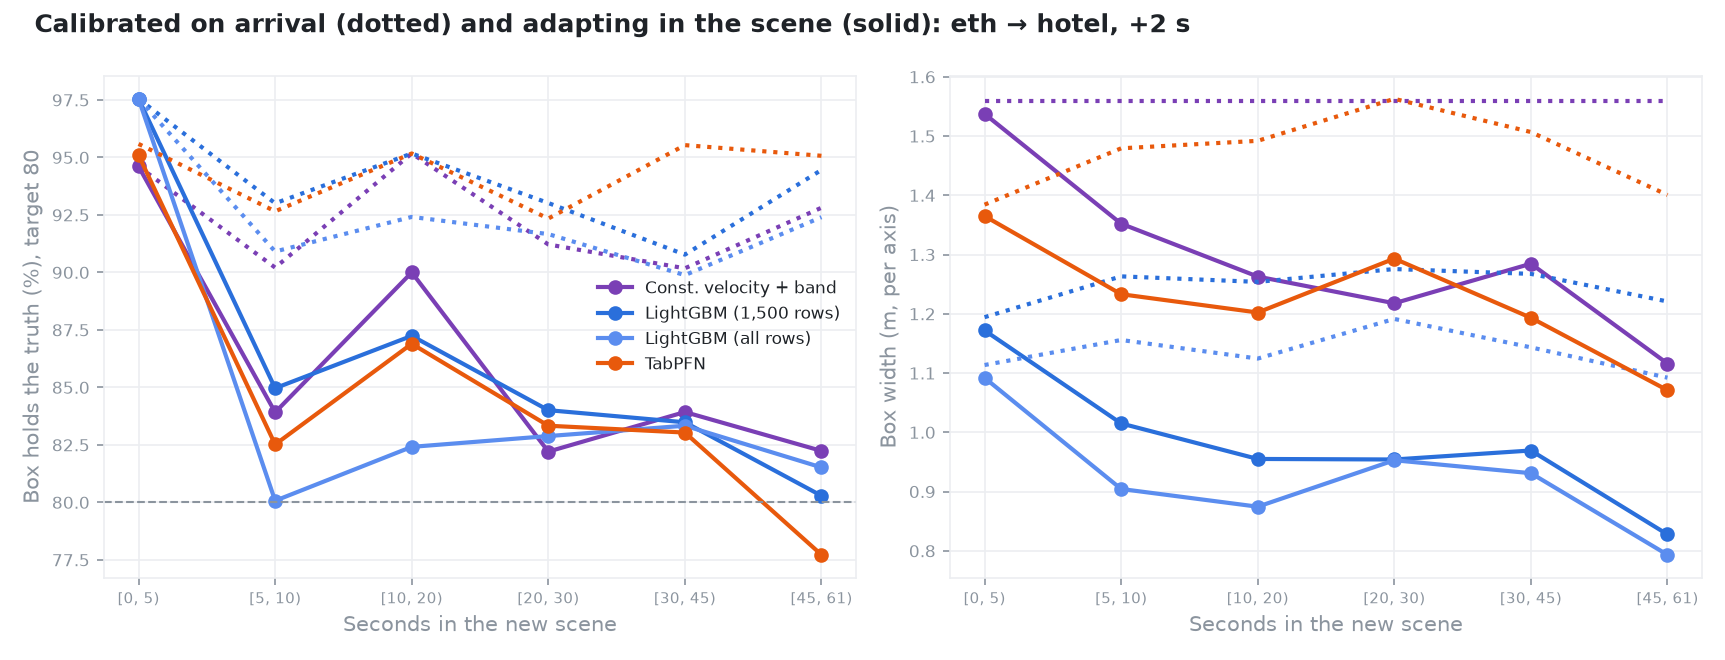
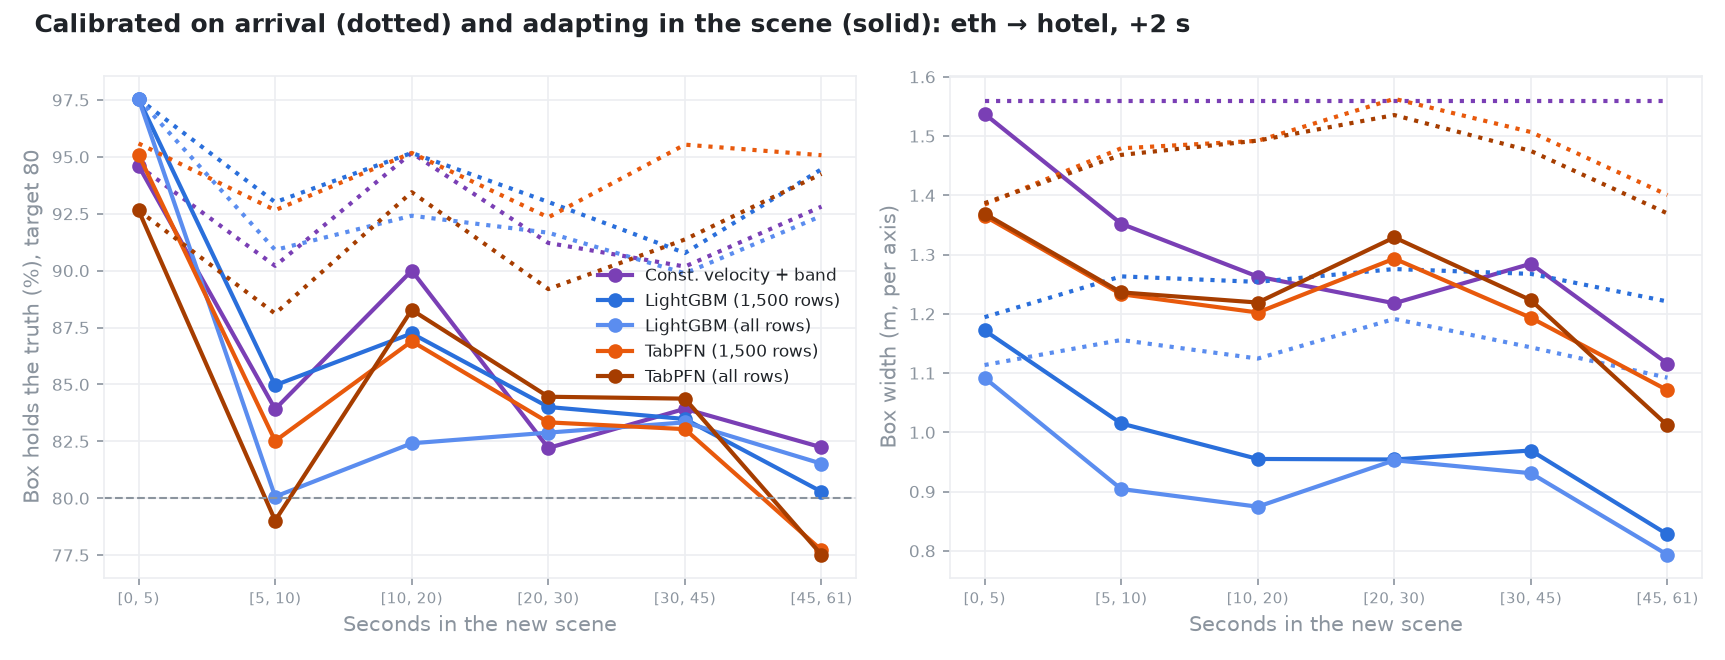
tabpfn_all in the conformal comparison (all training rows via API); tools/incontext_eval.py: re-conditioned TabPFN vs LightGBM refit on the same rows, all calibrated online

diff --git a/tools/incontext_eval.py b/tools/incontext_eval.py
@@ -1,0 +1,156 @@
+"""The decisive in-scene test: does re-conditioning on the new scene's rows make TabPFN sharper
+at matched coverage, compared with LightGBM?
+
+    python tools/incontext_eval.py --train data/hotel --test data/eth --episodes 4 --every 4 --api
+
+At moments every --every seconds in --episodes test episodes, the people at that moment get
+predictions (+2 s) from:
+  tabpfn_mix   TabPFN, context = 60% this scene's completed rows (labelled from observations)
+               + 30% similar bank rows + 10% stratified fill (context.select), refreshed per moment
+  lgbm_mix     LightGBM refit on exactly the same rows per moment
+  lgbm_all     LightGBM on every training-scene row, frozen
+  tabpfn       TabPFN on 1,500 training-scene rows, frozen
+Each gets the same calibration: a split offset from a held-out 30% of the training scene, then the
+online adaptive offset from this scene's outcomes (causal). Reported per seconds in the scene:
+joint coverage of the 10-90% box and its width.
+Prints the number of API calls (10,000 credits each) before running.
+"""
+import argparse
+import sys
+import time
+from pathlib import Path
+
+import matplotlib
+matplotlib.use("Agg")
+import matplotlib.pyplot as plt
+import numpy as np
+import pandas as pd
+
+sys.path.insert(0, str(Path(__file__).resolve().parents[1]))
+from foresight import viz as V  # noqa: E402
+from foresight.core import conformal as CF  # noqa: E402
+from foresight.core import context as C  # noqa: E402
+from foresight.core import features as F  # noqa: E402
+from foresight.core import models as M  # noqa: E402
+from run_offline import rows_for  # noqa: E402
+
+QS = (0.1, 0.5, 0.9)
+BINS = [0, 5, 10, 20, 40, 61]
+LABEL = {"tabpfn_mix": "TabPFN, this scene + similar rows", "lgbm_mix": "LightGBM, same rows refit",
+         "lgbm_all": "LightGBM, all training rows (frozen)", "tabpfn": "TabPFN, training rows (frozen)"}
+COLOR = {"tabpfn_mix": "#e8590c", "lgbm_mix": "#2a6fdb", "lgbm_all": "#5b8def", "tabpfn": "#f4a261"}
+STYLE = {"tabpfn_mix": "-", "lgbm_mix": "-", "lgbm_all": "--", "tabpfn": "--"}
+
+
+def tab(api):
+    return M.make("tabpfn", **({"api": True} if api else {"fast": True, "n_estimators": 1}))
+
+
+def main():
+    ap = argparse.ArgumentParser()
+    ap.add_argument("--train", required=True)
+    ap.add_argument("--test", required=True)
+    ap.add_argument("--noise", type=float, default=0.0)
+    ap.add_argument("--h", type=float, default=2.0)
+    ap.add_argument("--episodes", type=int, default=4)
+    ap.add_argument("--every", type=float, default=4.0)
+    ap.add_argument("--budget", type=int, default=1500)
+    ap.add_argument("--alpha", type=float, default=0.2)
+    ap.add_argument("--eta", type=float, default=0.02)
+    ap.add_argument("--api", action="store_true")
+    ap.add_argument("--yes", action="store_true", help="skip the call-count confirmation pause")
+    a = ap.parse_args()
+    hz = (1.2, 2.0, 4.8)
+    src = rows_for(a.train, a.noise, horizons=hz); src = src[np.isclose(src.h, a.h)]
+    dst = rows_for(a.test, a.noise, horizons=hz); dst = dst[np.isclose(dst.h, a.h)]
+    obs = rows_for(a.test, a.noise, horizons=hz, label_from="observed"); obs = obs[np.isclose(obs.h, a.h)]
+    fit_m, _, cal_m = F.split_by_episode(src, test_frac=0.3, seed=1)
+    fit, cal = src[fit_m], src[cal_m]
+    bank = C.Bank(fit)
+    eps = sorted(dst.episode.unique())[: a.episodes]
+    moments = []
+    for ep in eps:
+        d = dst[dst.episode == ep]
+        ts = sorted(d.t.unique())
+        step = max(1, int(round(a.every / np.median(np.diff(ts)))))
+        moments += [(ep, t) for t in ts[::step]]
+    test = pd.concat([dst[(dst.episode == ep) & np.isclose(dst.t, t)] for ep, t in moments]).sort_values(["episode", "t"])
+    n_calls = (2 * len(moments) + 2 * 2) if a.api else 0          # mix per moment; frozen: calib + test
+    print(f"{len(moments)} moments, {len(test)} query rows. API predict calls: {n_calls} "
+          f"(= {10_000 * n_calls:,} credits)", flush=True)
+    if a.api and not a.yes:
+        time.sleep(5)
+
+    Y = test[["ddx", "ddy"]].to_numpy()
+    Yc = cal[["ddx", "ddy"]].to_numpy()
+    preds, d0 = {}, {}
+    # frozen models: one batch each
+    for key in ("lgbm_all", "tabpfn"):
+        rows = fit if key == "lgbm_all" else fit.sample(min(a.budget, len(fit)), random_state=0)
+        m = (M.make("lgbm") if key == "lgbm_all" else tab(a.api)).fit(F.X_of(rows), rows[["ddx", "ddy"]].to_numpy())
+        Qc = m.predict_quantiles(F.X_of(cal), QS)
+        d0[key] = CF.split_offset(Qc[:, :, 0], Qc[:, :, 2], Yc, a.alpha)
+        preds[key] = m.predict_quantiles(F.X_of(test), QS)
+    # arrival offsets for the per-moment models: the same model family on bank rows only
+    d0["tabpfn_mix"], d0["lgbm_mix"] = d0["tabpfn"], CF.split_offset(
+        *(lambda Q: (Q[:, :, 0], Q[:, :, 2]))(M.make("lgbm").fit(
+            F.X_of(fit.sample(min(a.budget, len(fit)), random_state=0)),
+            fit.sample(min(a.budget, len(fit)), random_state=0)[["ddx", "ddy"]].to_numpy()).predict_quantiles(F.X_of(cal), QS)),
+        Yc, a.alpha)
+    # per-moment models
+    Qm = {"tabpfn_mix": [], "lgbm_mix": []}
+    n_live = []
+    t0 = time.perf_counter()
+    for ep, t in moments:
+        q = test[(test.episode == ep) & np.isclose(test.t, t)]
+        live = obs[(obs.episode == ep)]
+        ctx = C.select(q, bank, live=live, budget=a.budget, mix=(0.6, 0.3, 0.1))
+        n_live.append(int(((live.t_known <= t + 1e-9)).sum()))
+        Xc, Yctx = F.X_of(ctx), ctx[["ddx", "ddy"]].to_numpy()
+        Qm["tabpfn_mix"].append(tab(a.api).fit(Xc, Yctx).predict_quantiles(F.X_of(q), QS))
+        Qm["lgbm_mix"].append(M.make("lgbm").fit(Xc, Yctx).predict_quantiles(F.X_of(q), QS))
+    preds["tabpfn_mix"] = np.concatenate(Qm["tabpfn_mix"]); preds["lgbm_mix"] = np.concatenate(Qm["lgbm_mix"])
+    print(f"per-moment fits done ({time.perf_counter() - t0:.0f} s)", flush=True)
+
+    sec = test.t.to_numpy(); rows = []
+    for key, Q in preds.items():
+        lo, hi = Q[:, :, 0], Q[:, :, 2]
+        d_on, _ = CF.online_offsets(test.t.to_numpy(), test.t_known.to_numpy(), test.episode.to_numpy(),
+                                    lo, hi, Y, d0[key], a.alpha, a.eta)
+        for variant, d in (("raw", np.zeros(len(test))), ("online", d_on)):
+            L, H = CF.widen(lo, hi, d)
+            inside = ((Y >= L) & (Y <= H)).all(axis=1); width = (H - L).mean(axis=1)
+            err = np.linalg.norm(Q[:, :, 1] - Y, axis=1)
+            for b0, b1 in zip(BINS[:-1], BINS[1:]):
+                k = (sec >= b0) & (sec < b1)
+                if k.any():
+                    rows.append(dict(model=key, variant=variant, bin=f"{b0}-{b1 - 1 if b1 == 61 else b1} s", b0=b0,
+                                     joint=inside[k].mean(), width=width[k].mean(), err=err[k].mean(), n=int(k.sum())))
+    R = pd.DataFrame(rows)
+    name = f"{Path(a.train).name}_to_{Path(a.test).name}"
+    R.to_csv(f"results/incontext_{name}.csv", index=False)
+    piv = R[R.variant == "online"].pivot_table(index="model", columns="b0", values=["joint", "width"]).round(3)
+    print(piv.to_string())
+    print("raw (no calibration):")
+    print(R[R.variant == "raw"].pivot_table(index="model", columns="b0", values=["joint", "err"]).round(3).to_string())
+
+    fig, axes = plt.subplots(1, 2, figsize=(11.5, 4.4), facecolor="white")
+    for key in preds:
+        g = R[(R.model == key) & (R.variant == "online")].sort_values("b0")
+        axes[0].plot(g.bin, 100 * g.joint, marker="o", lw=2, ls=STYLE[key], color=COLOR[key], label=LABEL[key])
+        axes[1].plot(g.bin, g.width, marker="o", lw=2, ls=STYLE[key], color=COLOR[key])
+    axes[0].axhline(100 * (1 - a.alpha), color=V.C_MUTED, lw=1, ls=":")
+    for ax in axes:
+        V.style_axes(ax, equal=False); ax.set_xlabel("Seconds in the new scene", color=V.C_MUTED)
+    axes[0].set_ylabel("Box holds the truth (%), target 80", color=V.C_MUTED)
+    axes[1].set_ylabel("Box width (m, per axis); lower = sharper", color=V.C_MUTED)
+    axes[0].legend(frameon=False, fontsize=8, labelcolor=V.C_INK)
+    fig.suptitle(f"Learning the new scene in context, all calibrated online: {Path(a.train).name} → {Path(a.test).name}, "
+                 f"+{a.h:g} s", fontsize=12, weight="bold", color=V.C_INK, x=0.02, ha="left")
+    fig.tight_layout(); fig.savefig(f"media/fig_incontext_{name}.png", dpi=150)
+    print(f"wrote results/incontext_{name}.csv and media/fig_incontext_{name}.png; median in-scene rows per moment "
+          f"{int(np.median(n_live))}")
+
+
+if __name__ == "__main__":
+    main()

diff --git a/tools/conformal_eval.py b/tools/conformal_eval.py
@@ -33,8 +33,8 @@ from run_offline import rows_for  # noqa: E402
 
 QS = (0.1, 0.5, 0.9)
 BINS = [0, 5, 10, 20, 30, 45, 61]
-LABEL = dict(V.MODEL_LABEL, lgbm="LightGBM (1,500 rows)", lgbm_all="LightGBM (all rows)")
-COLOR = dict(V.MODEL_COLOR, lgbm_all="#5b8def")
+LABEL = dict(V.MODEL_LABEL, lgbm="LightGBM (1,500 rows)", lgbm_all="LightGBM (all rows)", tabpfn="TabPFN (1,500 rows)", tabpfn_all="TabPFN (all rows)")
+COLOR = dict(V.MODEL_COLOR, lgbm_all="#5b8def", tabpfn_all="#a63d00")
 
 
 def main():
@@ -59,8 +59,8 @@ def main():
     summary, binned = [], []
     for key in a.models:
         t0 = time.perf_counter()
-        rows = fit if key in ("cv_band", "lgbm_all") else fit.sample(min(a.context, len(fit)), random_state=0)
-        kind = "lgbm" if key == "lgbm_all" else key
+        rows = fit if key in ("cv_band", "lgbm_all", "tabpfn_all") else fit.sample(min(a.context, len(fit)), random_state=0)
+        kind = {"lgbm_all": "lgbm", "tabpfn_all": "tabpfn"}.get(key, key)
         m = M.make(kind, **({"api": True} if (kind == "tabpfn" and a.api) else {})).fit(F.X_of(rows), rows[["ddx", "ddy"]].to_numpy())
         Qc, Qt = m.predict_quantiles(F.X_of(cal), QS), m.predict_quantiles(F.X_of(dst), QS)
         lo_c, hi_c, lo_t, hi_t = Qc[:, :, 0], Qc[:, :, 2], Qt[:, :, 0], Qt[:, :, 2]
